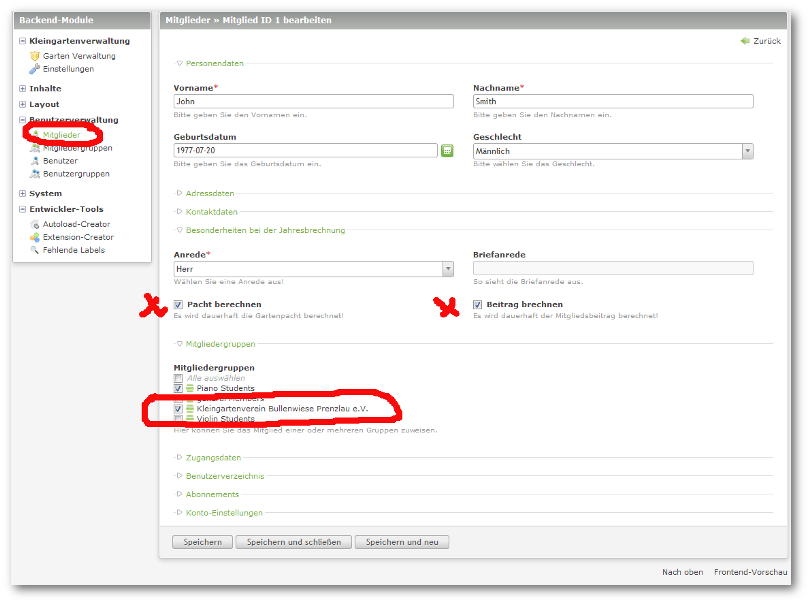
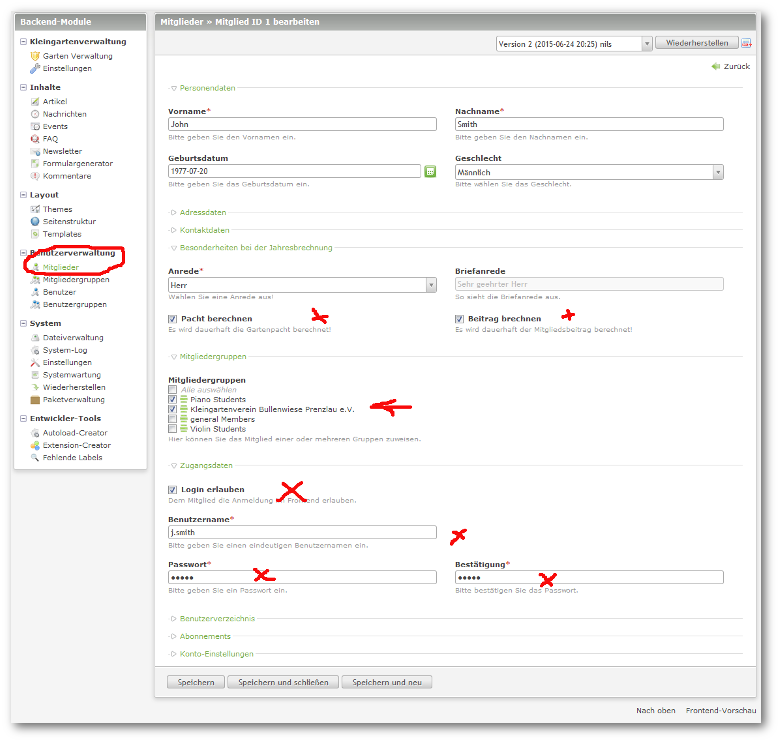
Korrektur Mitgliederanlegen
Zugangsdaten nicht vergessen

diff --git a/de/mitglieder.md b/de/mitglieder.md
@@ -10,4 +10,6 @@ Dies ist darum so wichtig, da nur Mitglieder aus dieser Gruppe später für die 
 
 Sie wählen hier die Anrede für den späteren Rechnungstext und haben die Möglichkeit, einige Mitglieder generell von Pacht- oder Beitragszahlungen auszuschließen!
 
+**Achtung!!** Bitte auch die Zugangsdaten vergeben, da Sie ja hoffentlich alle Zugangsmöglichkeiten schützen werden.
+
 ![](img/mitglieder02.png)
